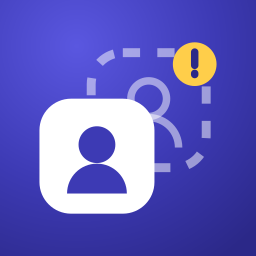
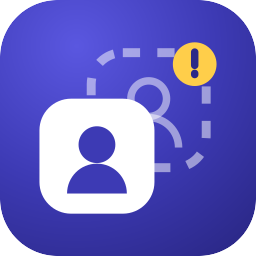
fix(ui): lien direct vers les réglages d'extensions, et icônes arrondies
J'avais affirmé qu'aucune API publique ne permettait d'ouvrir Safari →
Extensions. Faux. SFSafariSettings.openExtensionsSettings(forIdentifiers:) est
publique depuis iOS 26.2 et mène directement à la ligne de l'extension.
Découvert en lisant le code d'uBlock Origin Lite, qui le fait — après que
l'utilisateur m'ait montré une capture le prouvant.

Sous 26.2, repli sur les Réglages et les trois étapes écrites. Volontairement pas
ce que fait uBOL là — passer par un x-callback-url Raccourcis dont le chemin
d'erreur déclenche prefs:root=SAFARI — parce que ça blanchit un schéma privé à
travers une autre app et exige Raccourcis installé.

Icônes : Safari affiche les icônes de manifest.json telles quelles, sans masque.
Un carré plein au milieu d'une colonne d'icônes arrondies avait l'air cassé.
Rendues arrondies (rayon 22,37 % du côté, la grille d'Apple).

scripts/render-icons.sh regroupe les quatre rendus depuis les deux SVG
canoniques, avec leurs règles distinctes : app sans alpha (exigence App Store),
extension arrondie, action en silhouette. Les tenir synchronisés à la main avait
déjà échoué une fois.

diff --git a/Shared/UI/ActivationViews.swift b/Shared/UI/ActivationViews.swift
@@ -1,3 +1,4 @@
+import SafariServices
 import SwiftUI
 
 /// The activation instructions, shared by the onboarding and the Home tab.
@@ -39,20 +40,34 @@ private struct StepRow: View {
     }
 }
 
-/// Opens the Settings app.
+/// Jumps straight to Safari → Extensions.
 ///
-/// It lands on Avert's own Settings page, **not** on Safari → Extensions, and the
-/// label says so. iOS publishes exactly one URL for this
-/// (`UIApplication.openSettingsURLString`); the deep link that would jump
-/// straight to the extension list, `App-prefs:root=SAFARI&path=WEB_EXTENSIONS`,
-/// is a private scheme and a documented cause of App Store rejection. Promising
-/// a shortcut that iOS does not offer — or risking the app's review over three
-/// taps — is not a trade this app makes.
+/// `SFSafariSettings.openExtensionsSettings(forIdentifiers:)` is a public
+/// SafariServices API added in iOS 26.2 and lands directly on the extension's
+/// own row. I had previously written this off as impossible and shipped a button
+/// that merely opened the app's Settings page — wrong, and found out by being
+/// shown uBlock Origin Lite doing it.
+///
+/// Below 26.2 there is no public equivalent, so the fallback opens Settings and
+/// the three written steps take over. Deliberately not doing what uBOL does
+/// there — bouncing through a Shortcuts `x-callback-url` whose error path
+/// triggers `prefs:root=SAFARI` — because it launders a private scheme through
+/// another app and needs Shortcuts installed. Three taps is a fine price for a
+/// version of iOS that will be rare by the time this ships.
 struct OpenSettingsButton: View {
+    private static let extensionBundleID = "com.ouweis.avert.extension"
+
+    // Not UIApplication.shared: this file is compiled into the action extension
+    // too, where that symbol is unavailable. The environment action works in
+    // both contexts.
+    @Environment(\.openURL) private var openURL
+
     var body: some View {
-        Link(destination: URL(string: UIApplication.openSettingsURLString)!) {
+        Button {
+            Task { await open() }
+        } label: {
             HStack(spacing: 6) {
-                Text("Ouvrir les Réglages")
+                Text("Ouvrir les réglages d'extensions")
                 Image(systemName: "arrow.up.forward.app")
                     .font(.footnote)
             }
@@ -64,6 +79,24 @@ struct OpenSettingsButton: View {
             )
             .foregroundStyle(Color.avertIndigo)
         }
-        .accessibilityHint("Ouvre les Réglages d'iOS. Naviguez ensuite vers Apps, puis Safari, puis Extensions.")
+        .accessibilityHint("Ouvre les réglages des extensions Safari.")
+    }
+
+    @MainActor
+    private func open() async {
+        if #available(iOS 26.2, *) {
+            do {
+                try await SFSafariSettings.openExtensionsSettings(
+                    forIdentifiers: [Self.extensionBundleID]
+                )
+                return
+            } catch {
+                // Fall through: a failure here must still get the user somewhere
+                // useful rather than leaving the button dead.
+            }
+        }
+        if let url = URL(string: UIApplication.openSettingsURLString) {
+            openURL(url)
+        }
     }
 }
